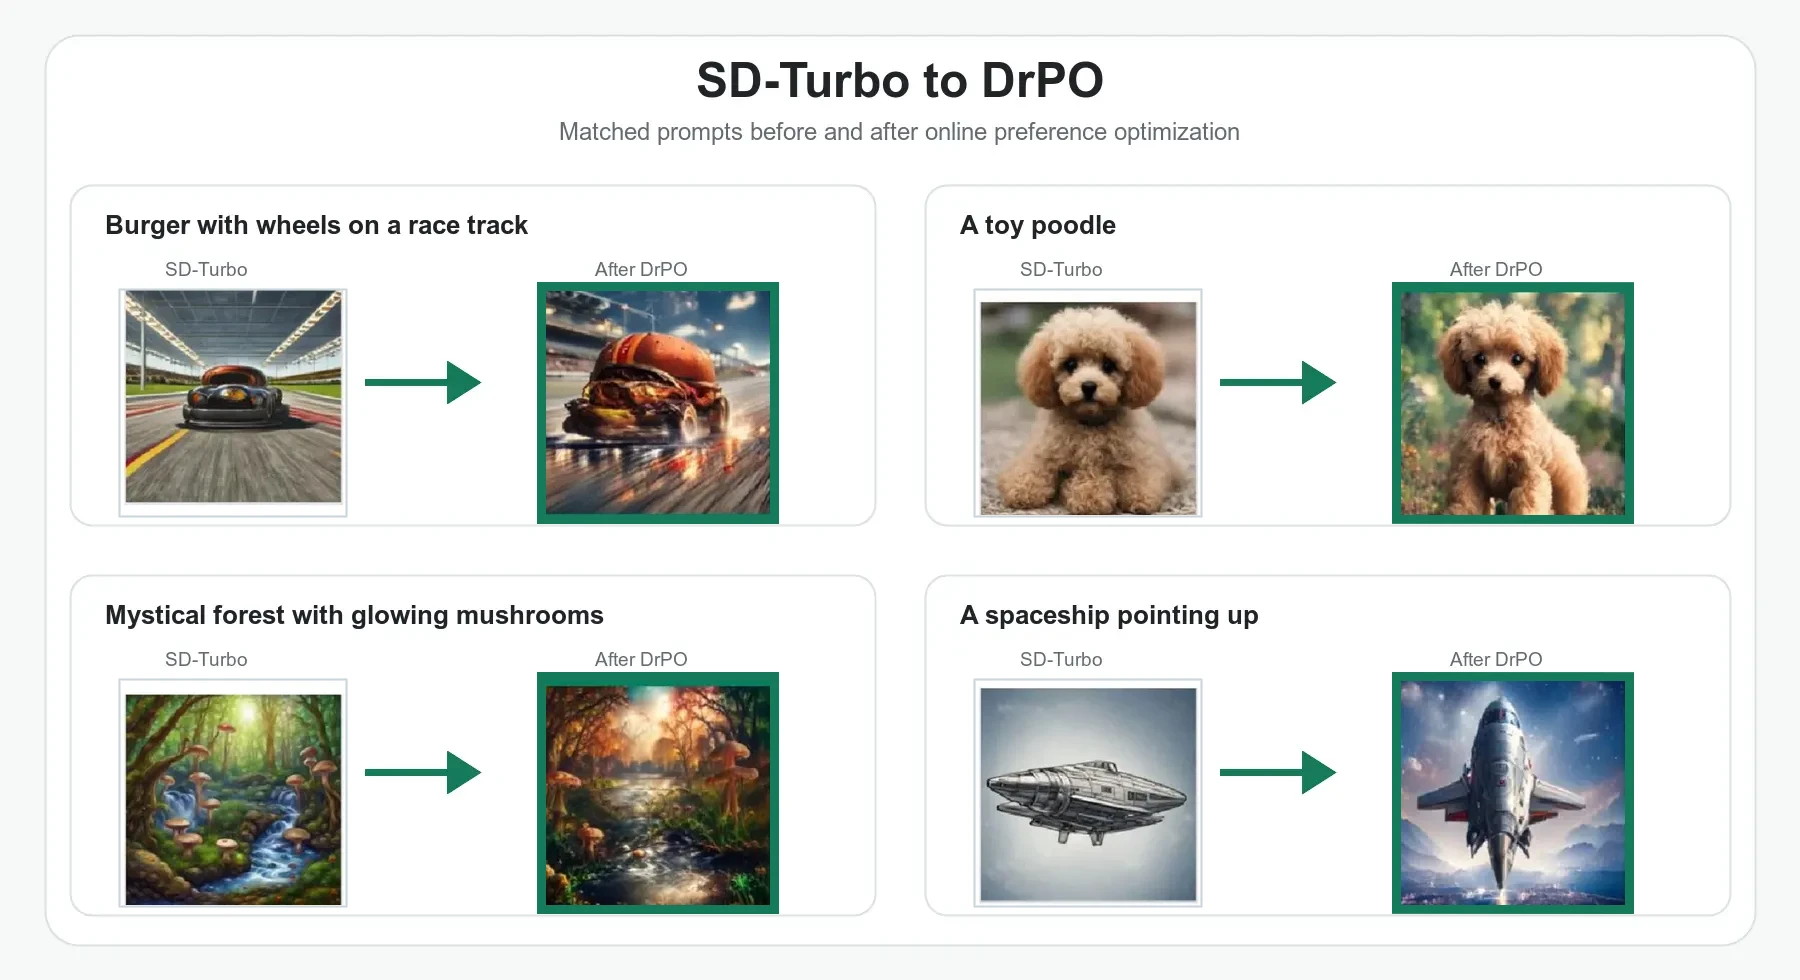
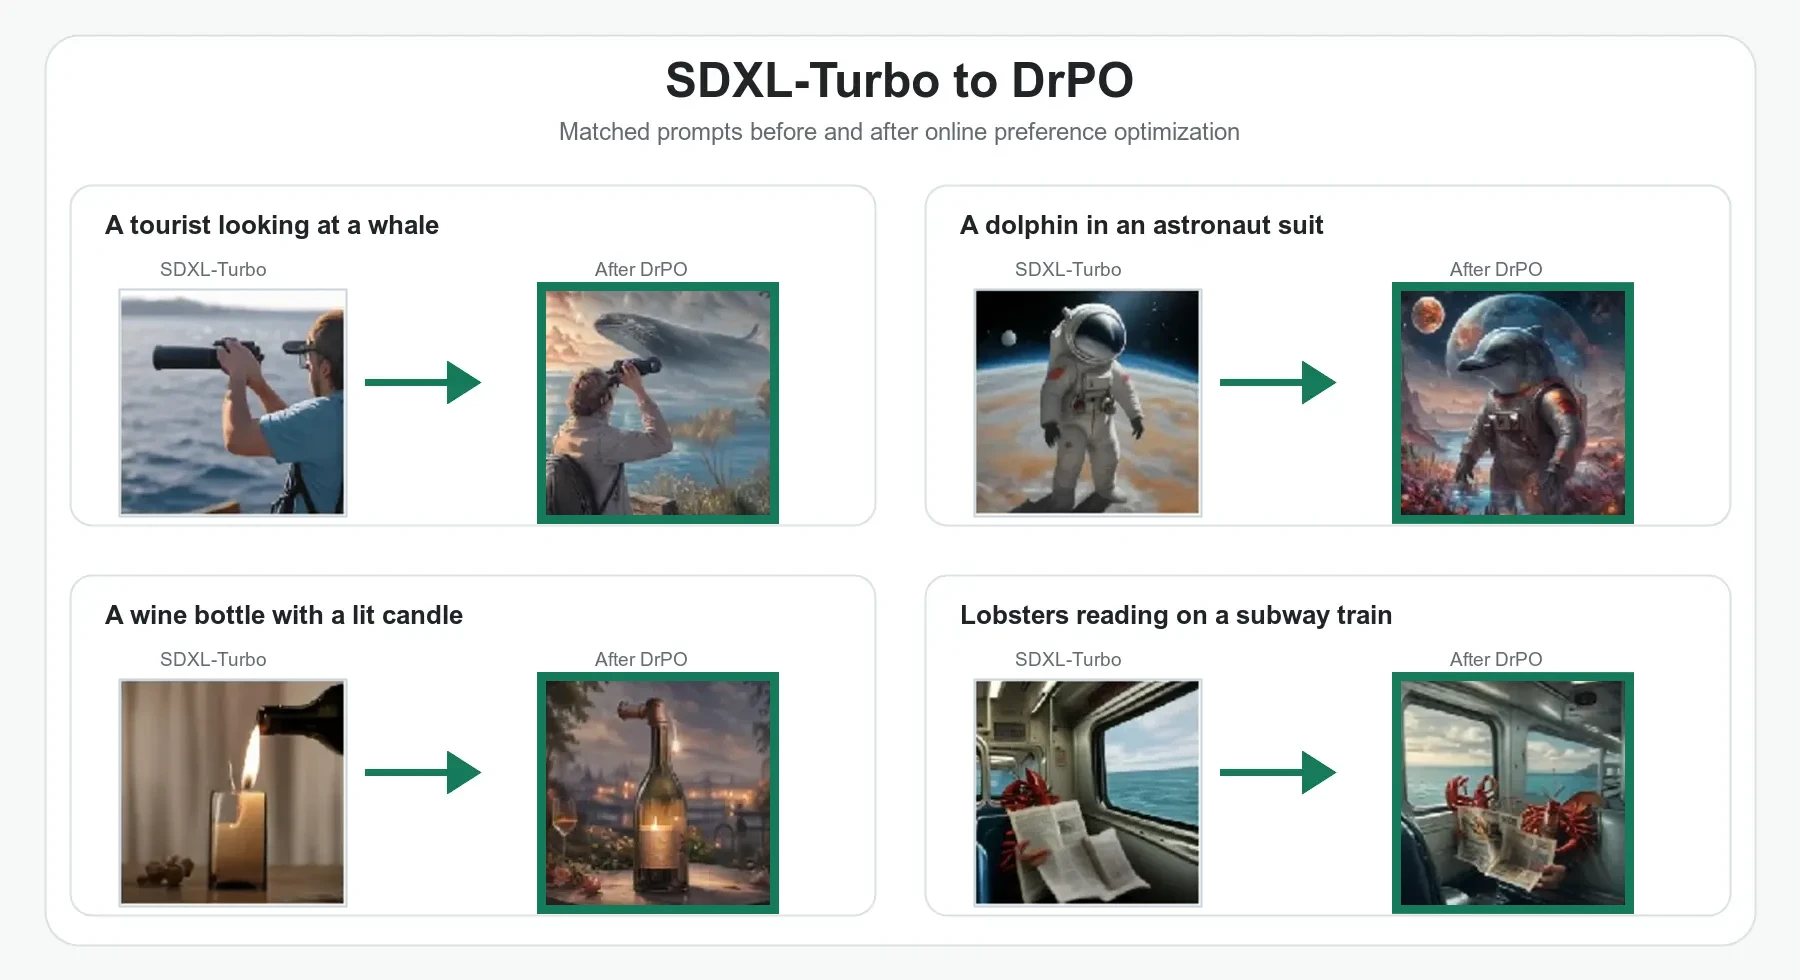
Use SDXL examples for homepage teaser

diff --git a/website/index.html b/website/index.html
@@ -58,10 +58,10 @@
         <figure class="hero-teaser">
           <picture>
             <source media="(max-width: 560px)" srcset="assets/hero-teaser-mobile.webp">
-            <img src="assets/hero-teaser.webp" alt="Matched SD-Turbo to DrPO examples for text-to-image prompts.">
+            <img src="assets/hero-teaser.webp" alt="Matched SDXL-Turbo to DrPO examples for text-to-image prompts.">
           </picture>
           <figcaption>
-            Matched prompts before and after DrPO preference optimization, while preserving one-step generation.
+            Matched SDXL-Turbo prompts before and after DrPO preference optimization, while preserving one-step generation.
           </figcaption>
         </figure>
       </section>